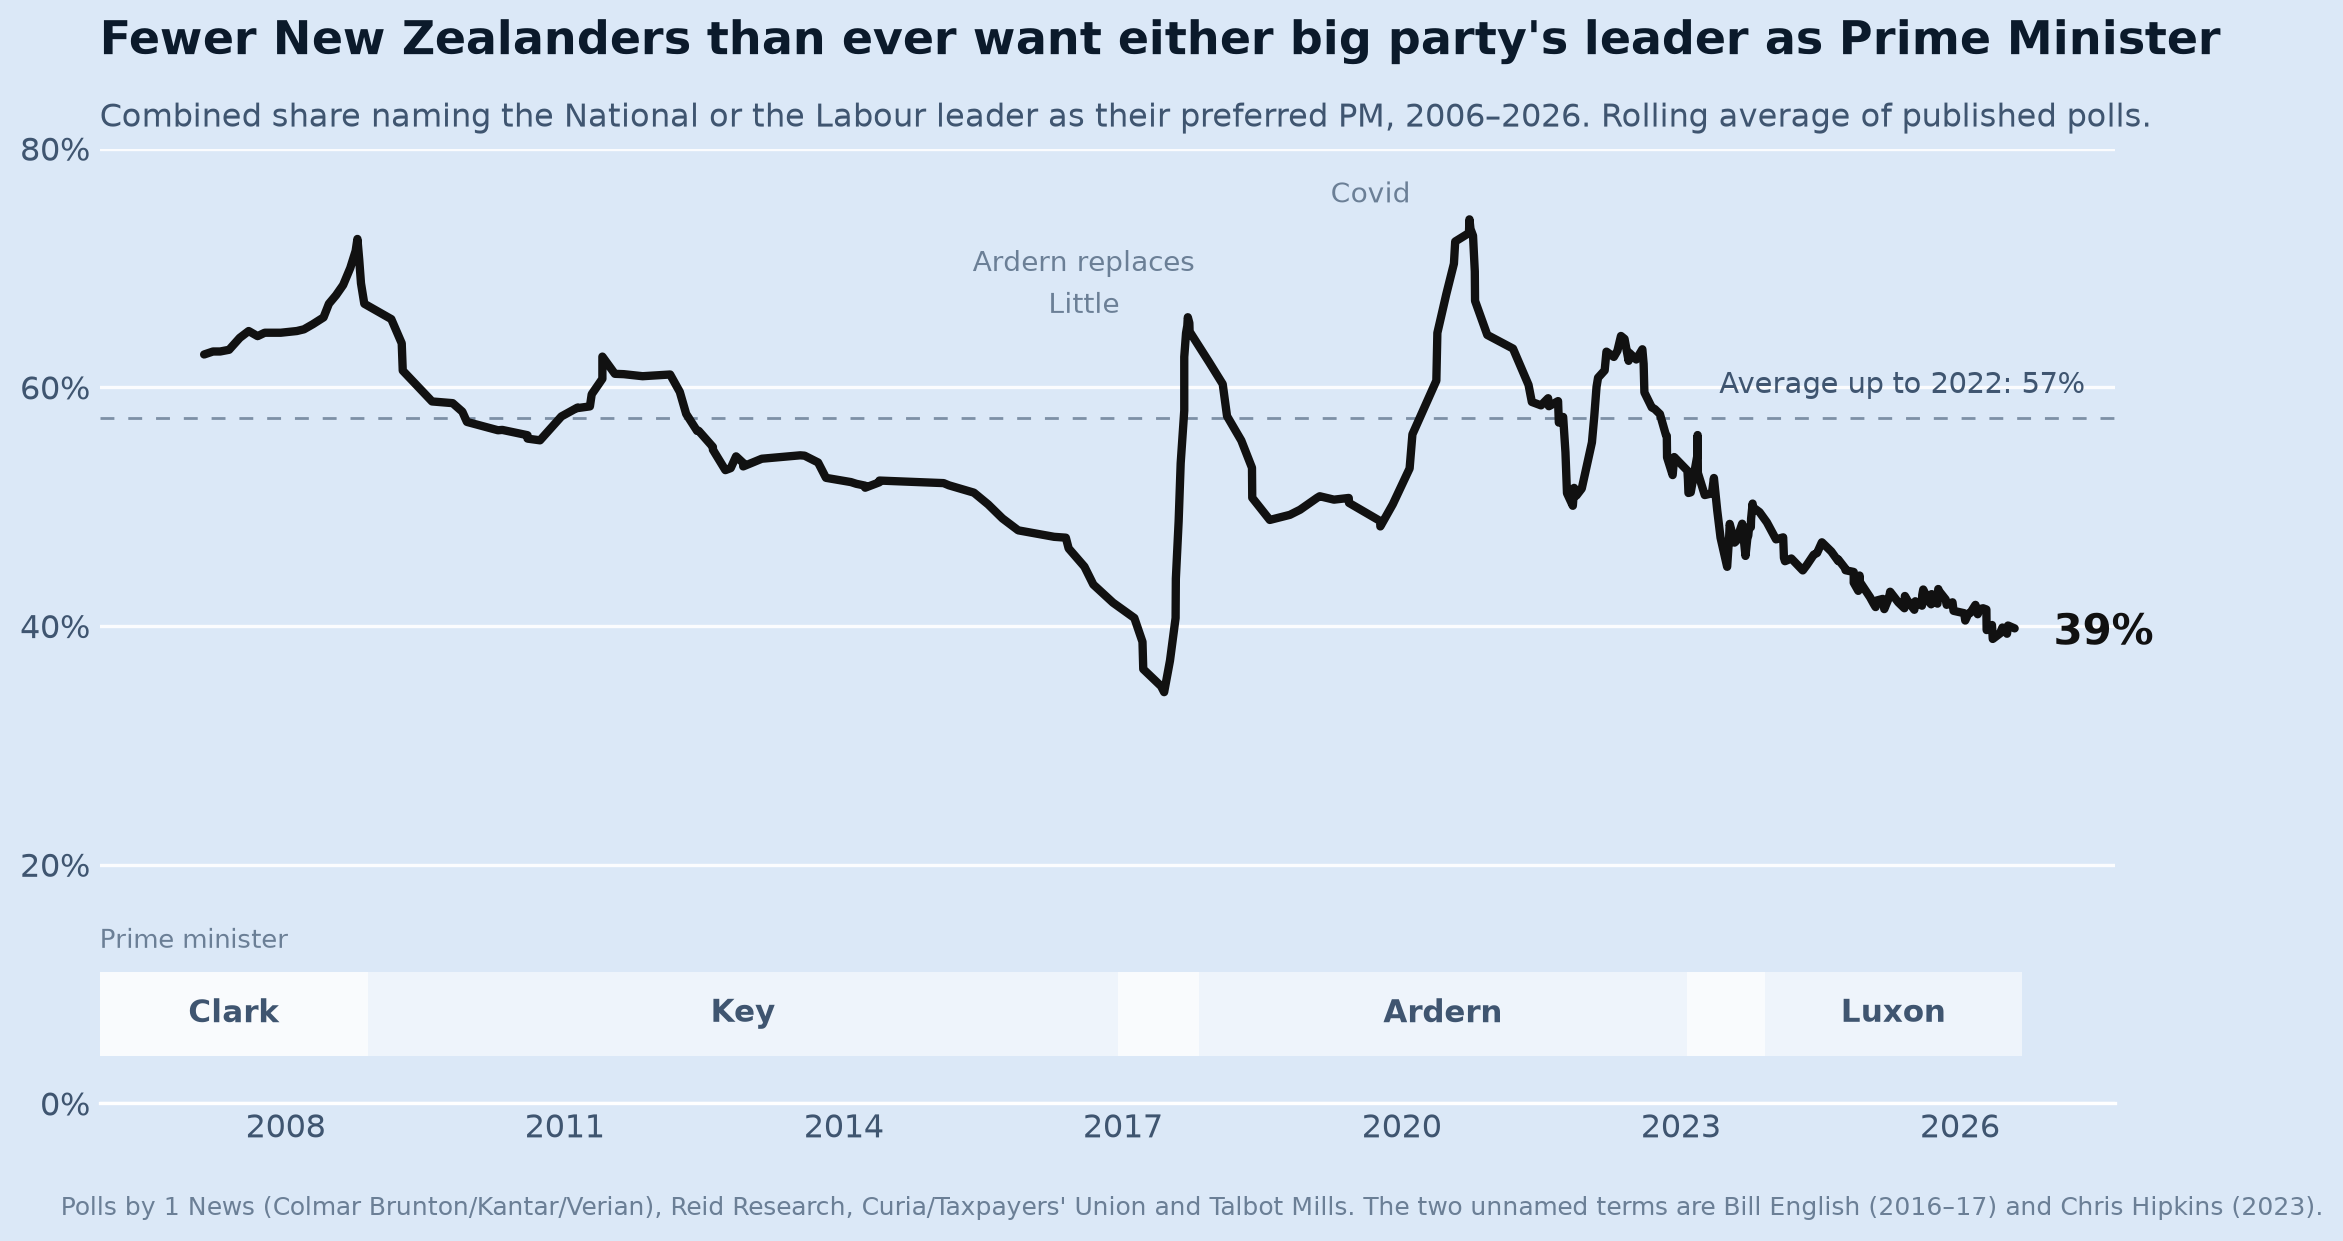
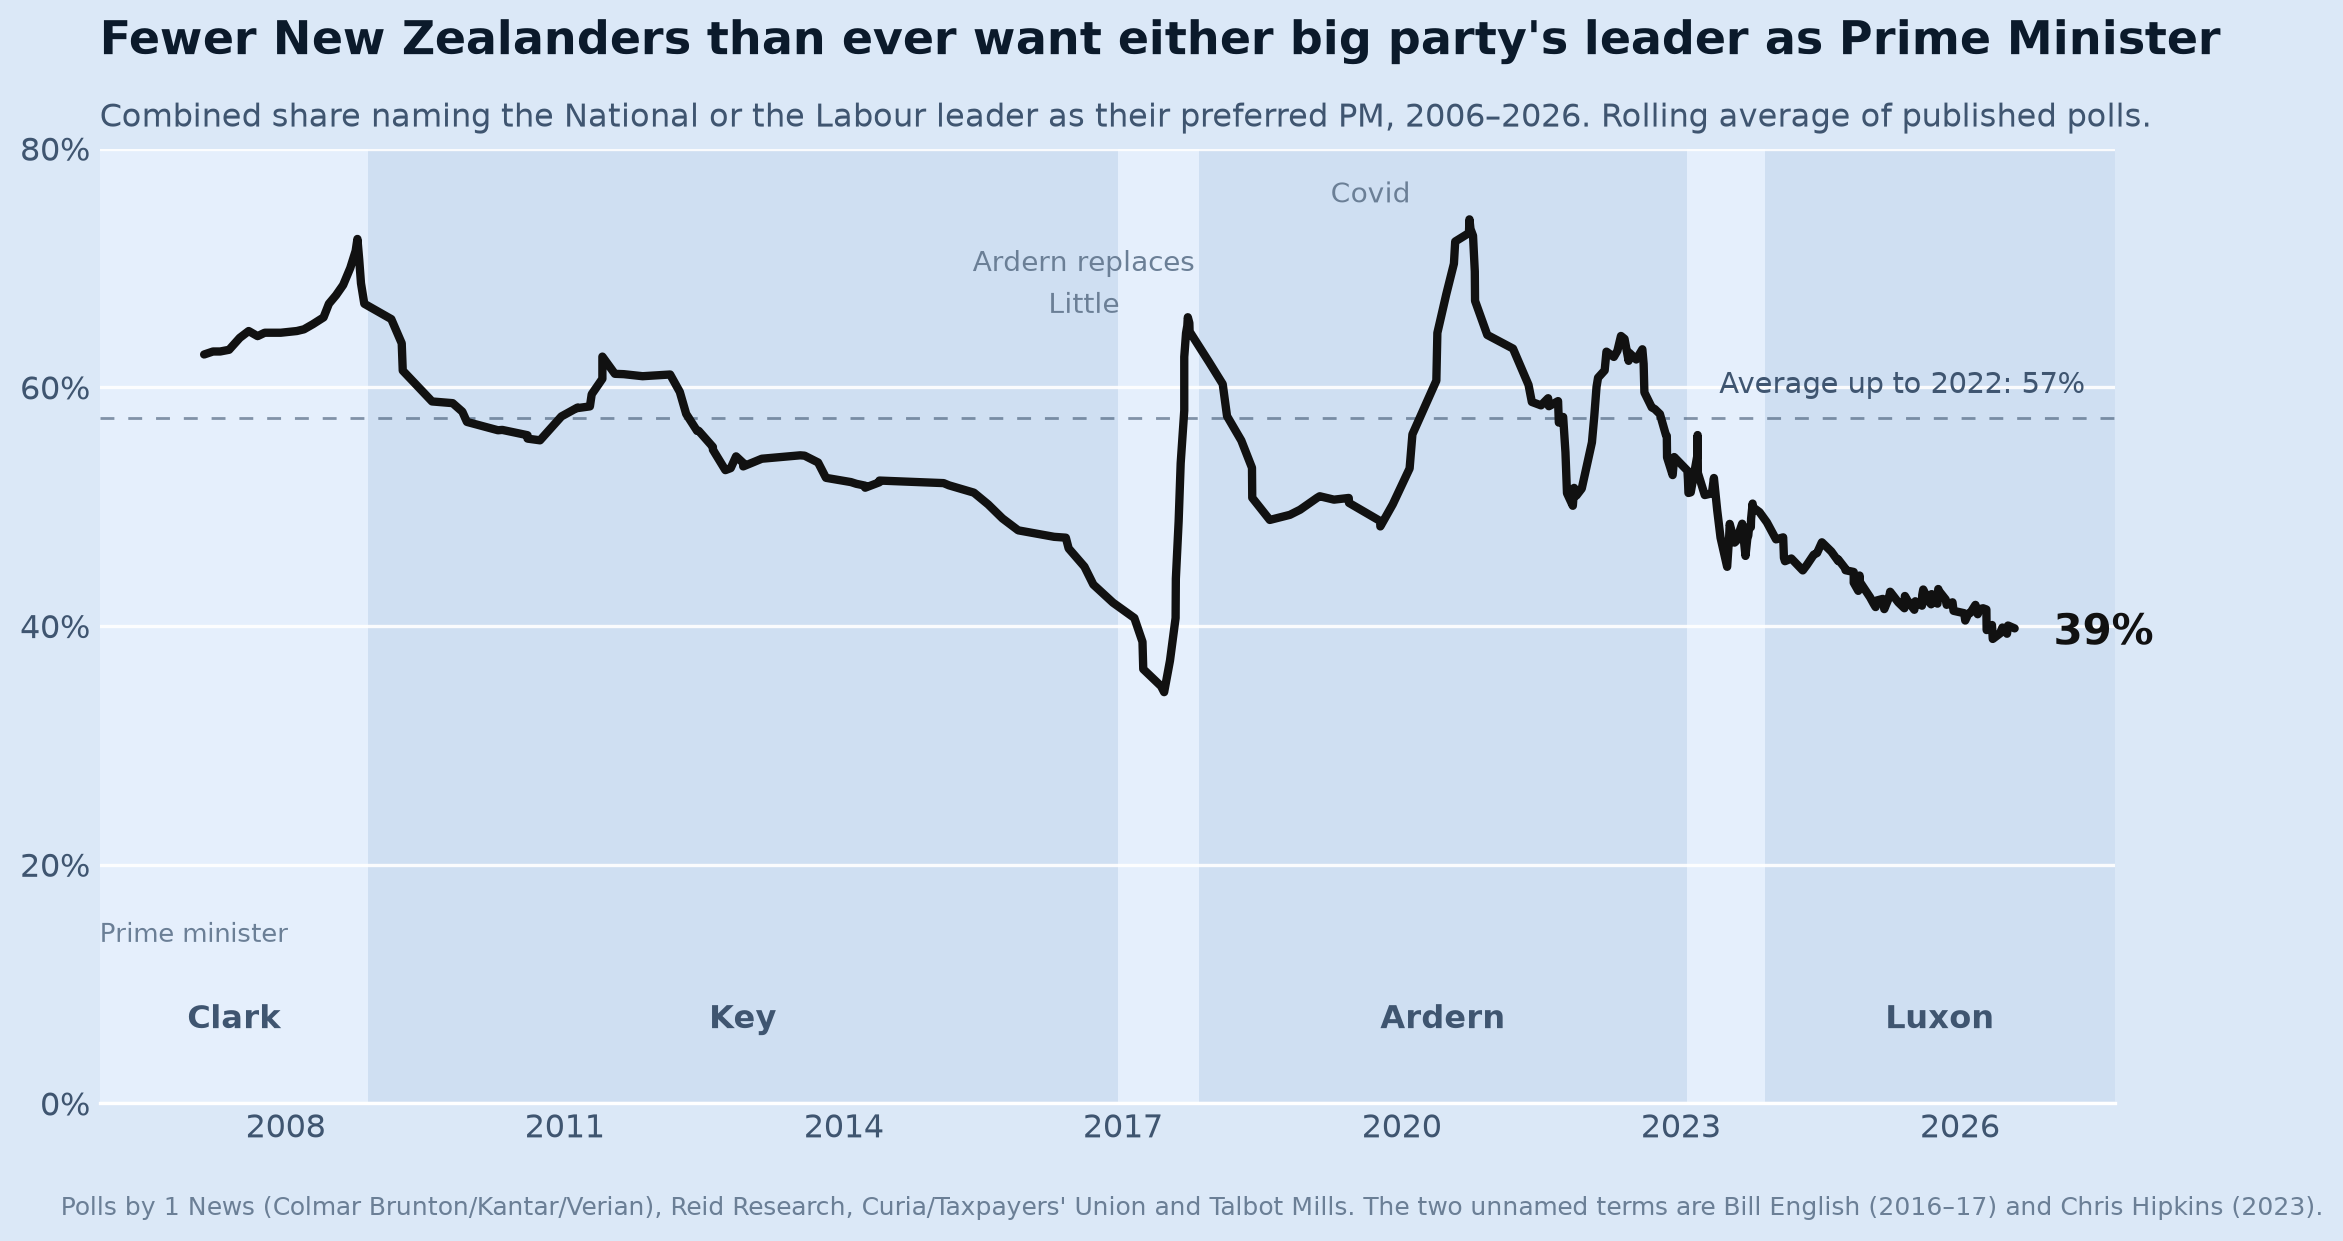
Shade the plot by prime-ministerial term
Replaces the bottom tenure ribbon with full-height alternating tints, two steps
either side of the panel colour so the terms read as a rhythm rather than as an
encoded quantity. Names sit at the foot of their own column.

Changed region(s): [[0.1558, 0.7655, 0.8724, 0.8574], [0.0312, 0.7349, 0.1246, 0.7655], [0.0623, 0.7961, 0.1246, 0.8268]]

diff --git a/pm_majors_graph.py b/pm_majors_graph.py
@@ -47,16 +47,19 @@ PMS = [
     ("", "2016-12-12", "2017-10-26"),      # English
     ("Ardern", "2017-10-26", "2023-01-25"),
     ("", "2023-01-25", "2023-11-27"),      # Hipkins
-    ("Luxon", "2023-11-27", "2026-09-01"),
+    ("Luxon", "2023-11-27", "2027-09-01"),
 ]
 
-PM_BAND = (4, 11)  # y-range the band occupies
+PM_LABEL_Y = 7  # where the names sit inside their shaded column
 
 TEXT_PRIMARY = "#0b1a2b"
 TEXT_SECONDARY = "#3f5570"
 TEXT_MUTED = "#6b7f96"
 SURFACE = "#dbe8f7"   # soft blue panel
 GRID = "#ffffff"
+# Two tints either side of the panel colour, alternating term by term. Kept
+# close together so they read as a rhythm rather than as an encoded quantity.
+PM_TINTS = ("#e5effc", "#cfdff2")
 
 
 def house(pollster: str):
@@ -97,13 +100,12 @@ def main():
 
     for i, (name, begin, end) in enumerate(PMS):
         x0, x1 = pd.Timestamp(begin), pd.Timestamp(end)
-        ax.fill_between([x0, x1], PM_BAND[0], PM_BAND[1], color=GRID,
-                        alpha=0.85 if i % 2 == 0 else 0.55, linewidth=0, zorder=2)
+        ax.axvspan(x0, x1, color=PM_TINTS[i % 2], linewidth=0, zorder=0)
         if name:
-            ax.text(x0 + (x1 - x0) / 2, sum(PM_BAND) / 2, name, ha="center",
-                    va="center", fontsize=11, fontweight="bold",
+            ax.text(x0 + (x1 - x0) / 2, PM_LABEL_Y, name, ha="center",
+                    va="center", fontsize=11.5, fontweight="bold",
                     color=TEXT_SECONDARY, zorder=3)
-    ax.text(pd.Timestamp(START), PM_BAND[1] + 1.5, "Prime minister",
+    ax.text(pd.Timestamp(START), PM_LABEL_Y + 6, "Prime minister",
             fontsize=9.5, color=TEXT_MUTED, va="bottom", zorder=3)
 
     ax.axhline(baseline, color=TEXT_SECONDARY, linewidth=1, linestyle=(0, (5, 5)),
